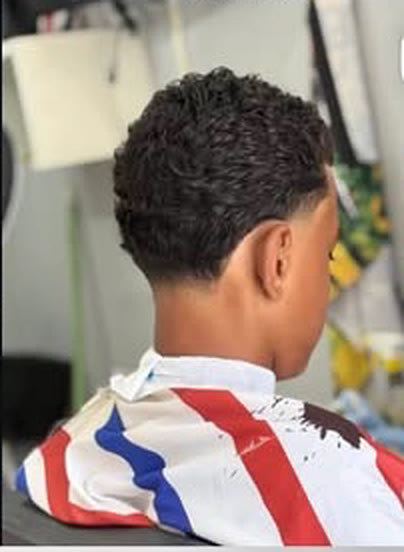
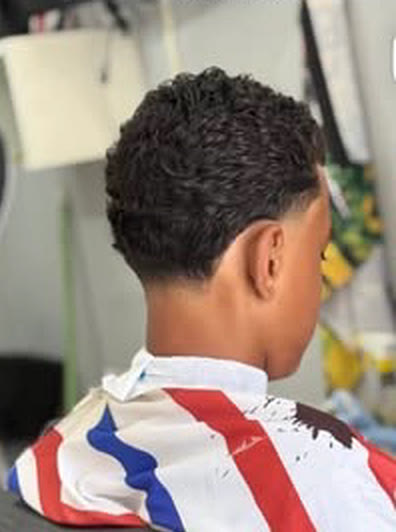
Fotos: remove sobras da interface do Instagram nas bordas
Apara a faixa clara da base e a divisória lateral dos recortes pequenos
(cacheado, degradê social, barba, Leonardo) e atualiza as dimensões.

Claude-Session: https://claude.ai/code/session_01HqK784Uj9sbTZmzyzKRycX

diff --git a/config/site.ts b/config/site.ts
@@ -90,7 +90,7 @@ export const photos = {
     src: "/fotos/barba.jpg",
     alt: "Cliente com barba grisalha alinhada, sentado na cadeira",
     caption: "Barba alinhada",
-    width: 404,
+    width: 396,
     height: 640,
     focus: "50% 35%",
     fromScreenshot: true,
@@ -100,7 +100,7 @@ export const photos = {
     alt: "Leonardo Miguel sorrindo enquanto corta o cabelo de um cliente",
     caption: "Leonardo atendendo",
     width: 404,
-    height: 552,
+    height: 532,
     focus: "40% 40%",
     fromScreenshot: true,
   },
@@ -108,8 +108,8 @@ export const photos = {
     src: "/fotos/cacheado.jpg",
     alt: "Cabelo cacheado com degradê nas laterais, visto de trás",
     caption: "Cacheado com degradê",
-    width: 404,
-    height: 552,
+    width: 396,
+    height: 532,
     focus: "50% 35%",
     fromScreenshot: true,
   },
@@ -117,8 +117,8 @@ export const photos = {
     src: "/fotos/degrade-social.jpg",
     alt: "Degradê com topo penteado para trás e barba rente, visto de perfil",
     caption: "Degradê e topo para trás",
-    width: 404,
-    height: 552,
+    width: 396,
+    height: 532,
     focus: "60% 40%",
     fromScreenshot: true,
   },

diff --git a/components/about.tsx b/components/about.tsx
@@ -52,7 +52,7 @@ export function About() {
           <PhotoSlot
             photo={about.photo}
             sizes="(min-width: 1024px) 352px, 90vw"
-            className="aspect-[404/552] w-full"
+            className="aspect-[404/532] w-full"
           />
         </div>
         <figcaption className="text-[0.8125rem] tracking-[0.12em] text-night-muted uppercase">
